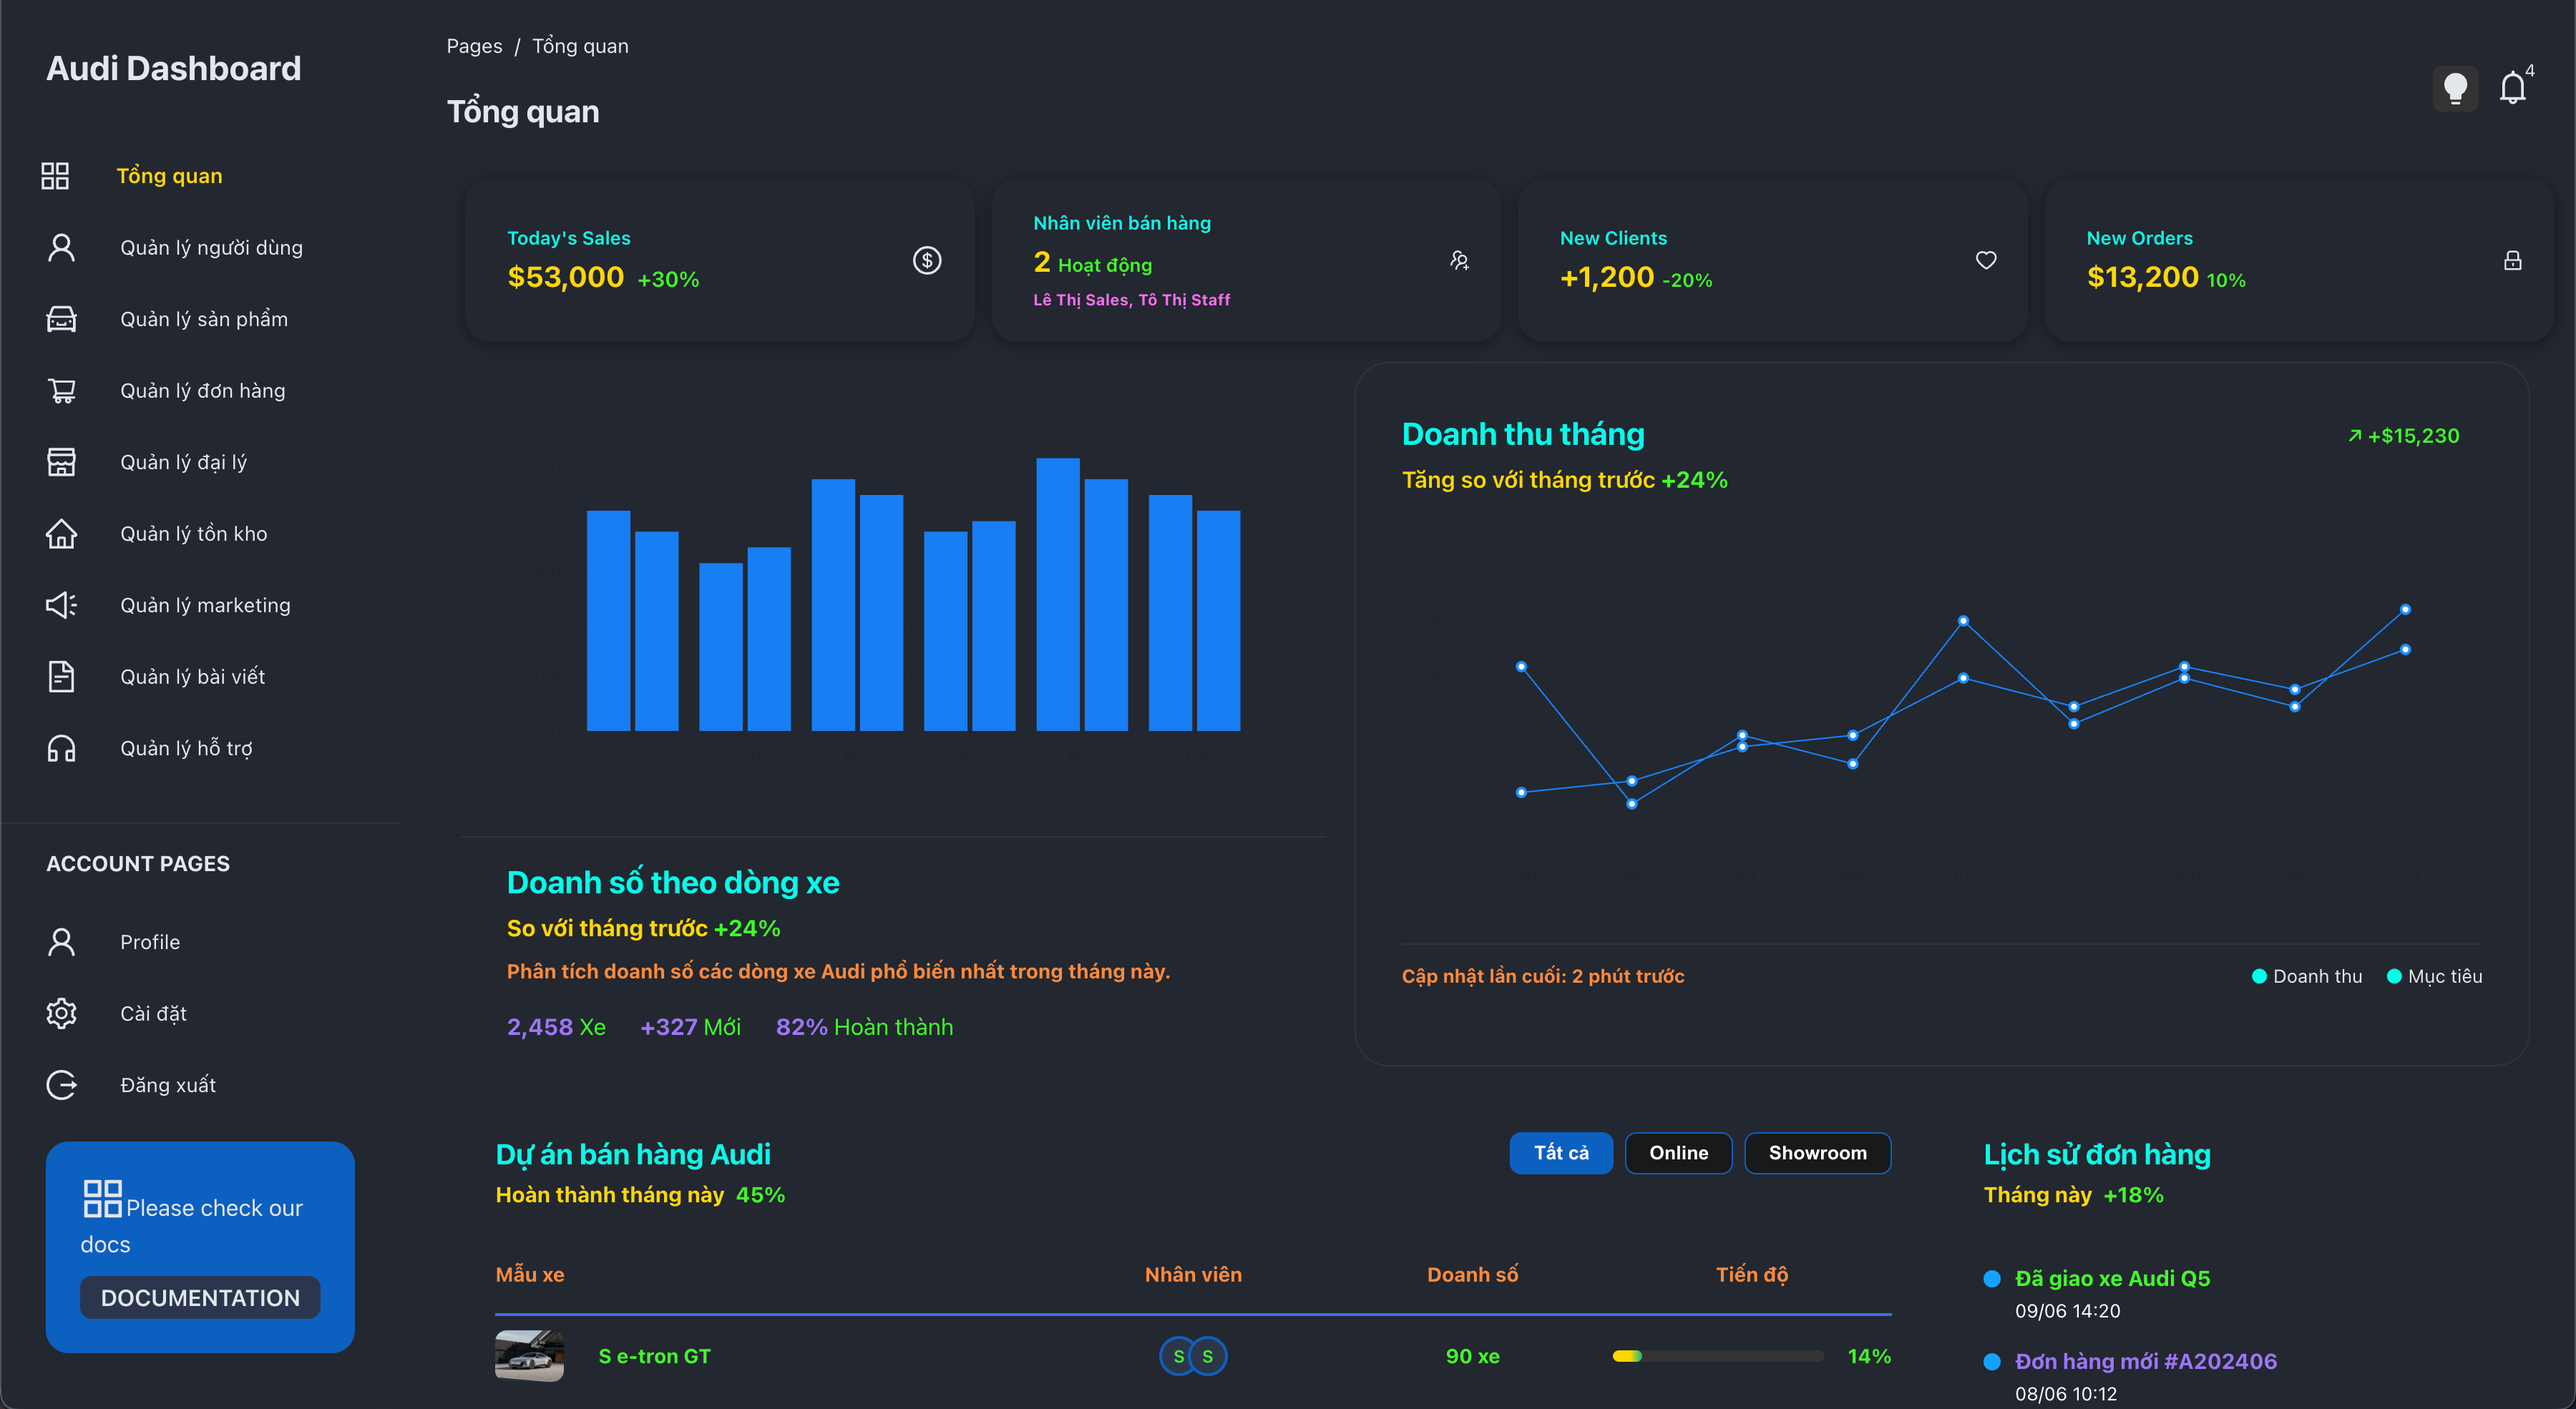
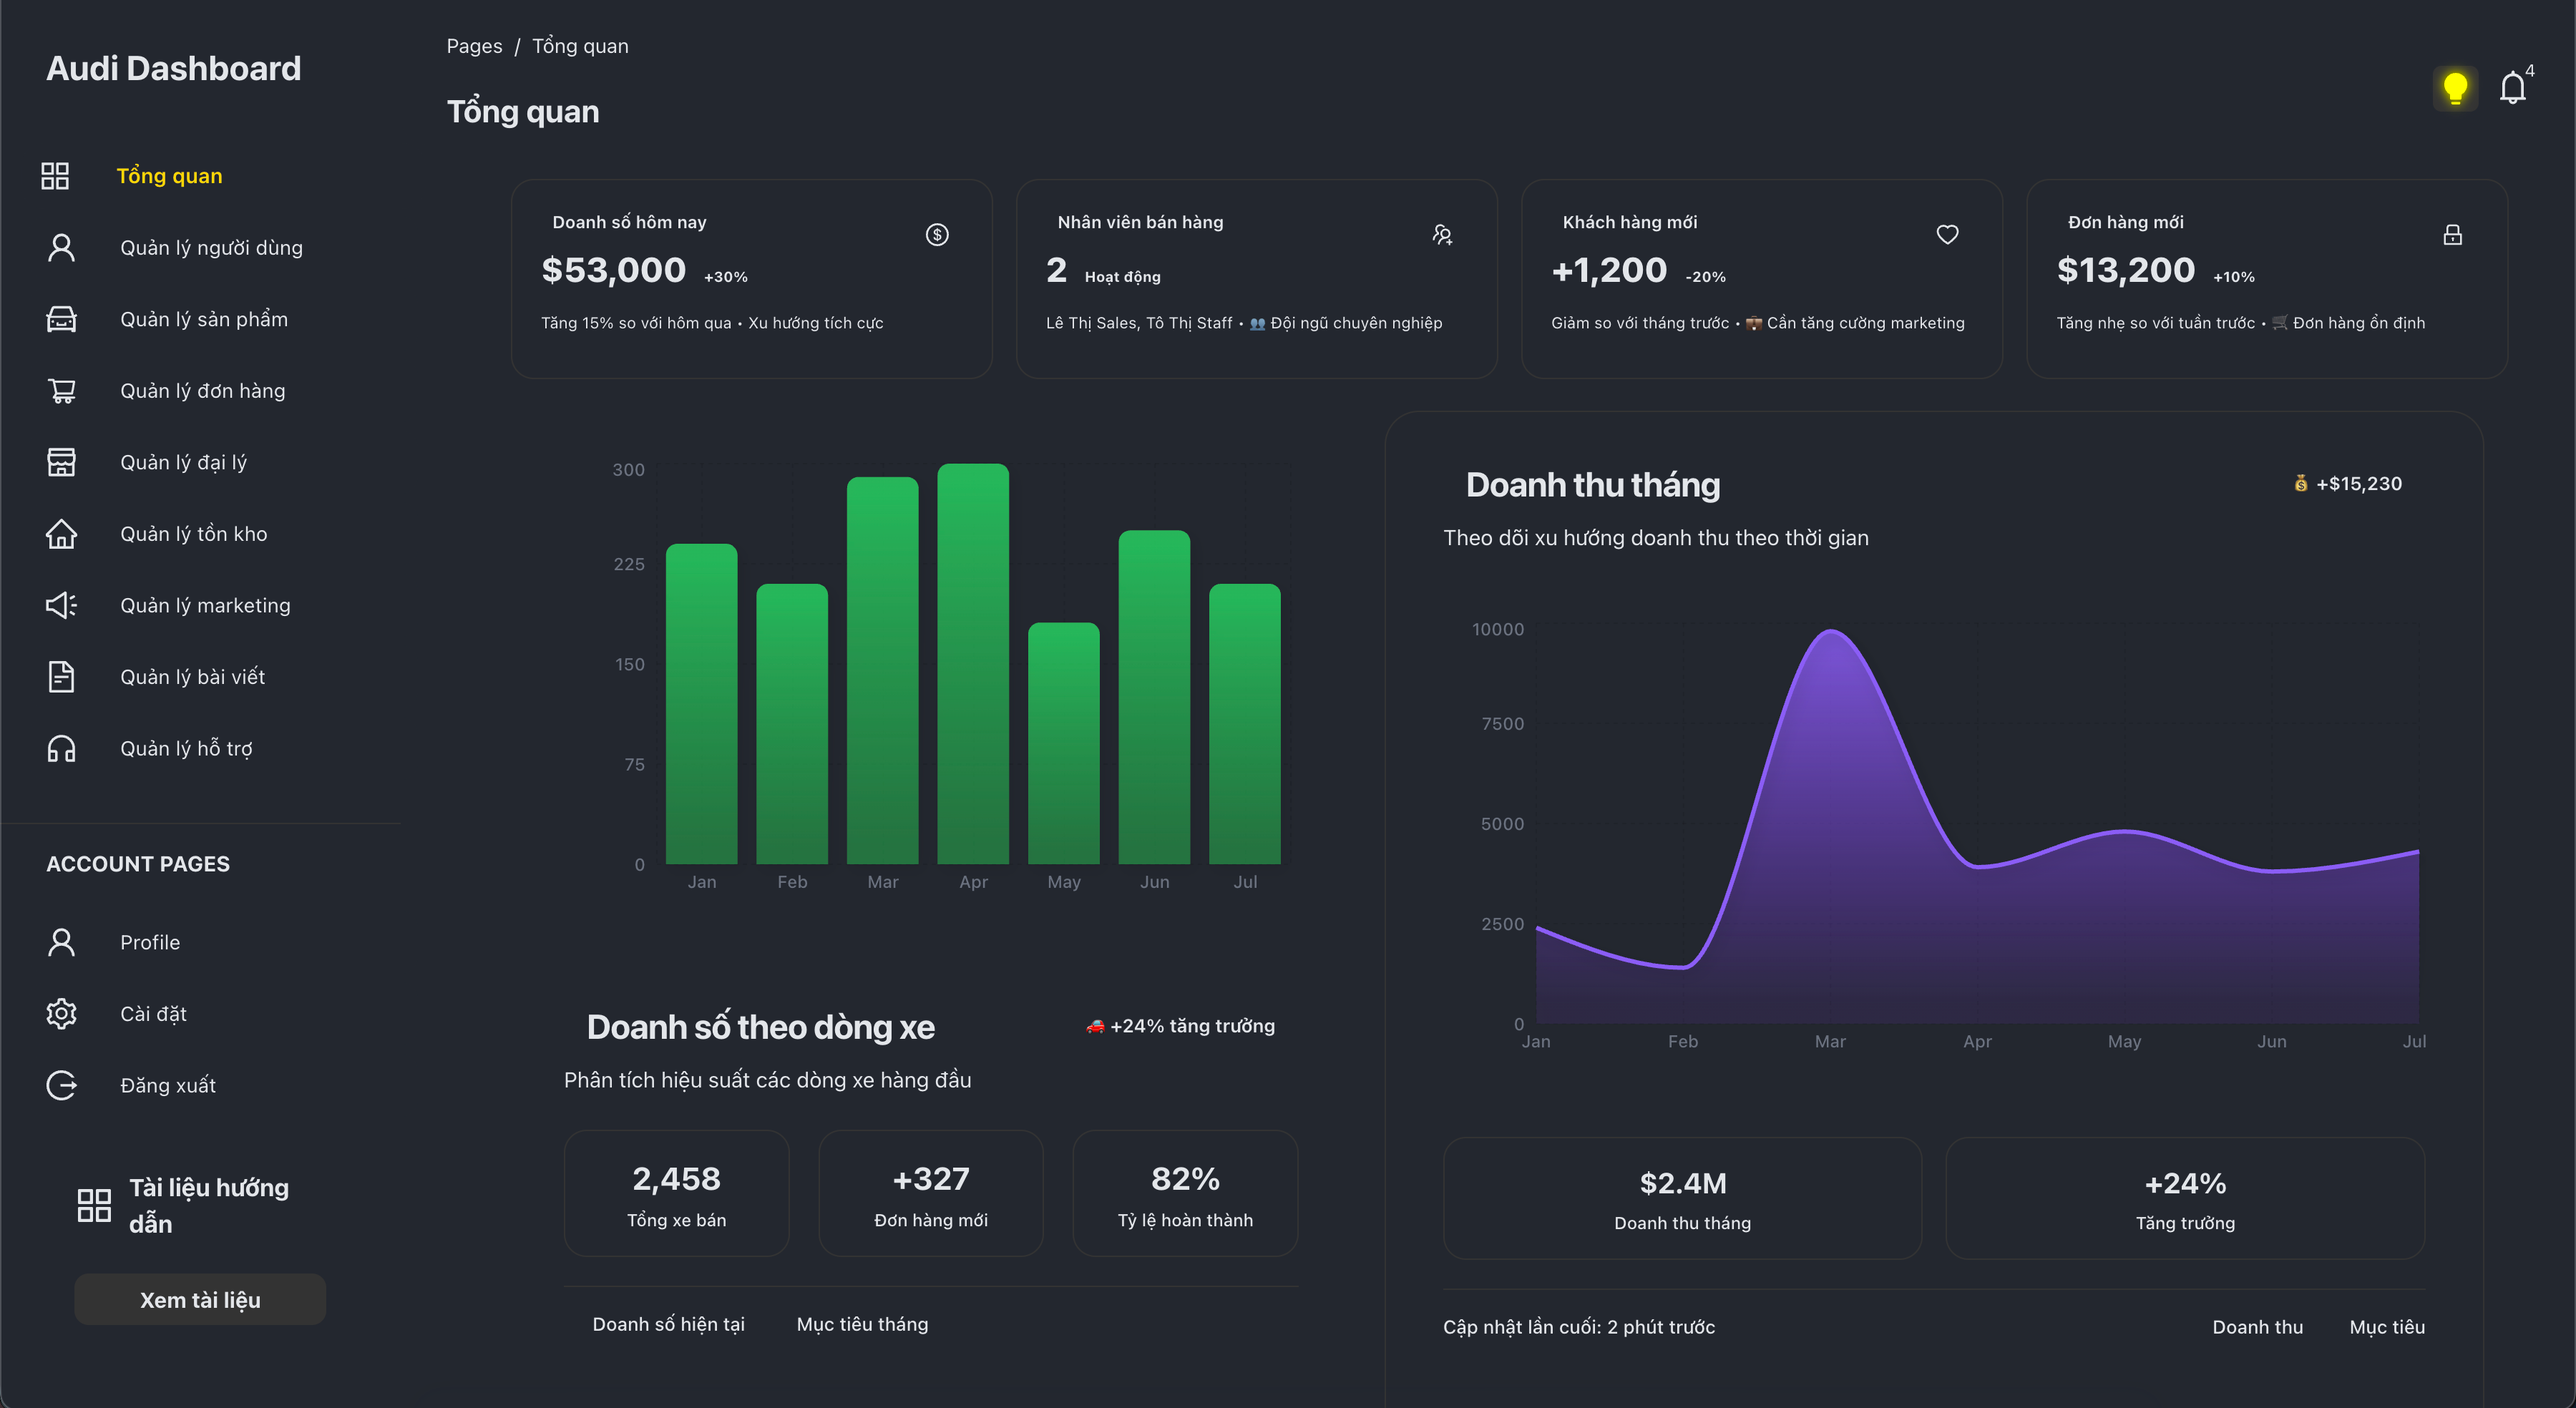
update README

diff --git a/src/context/pages/admin/Dashboard.tsx b/src/context/pages/admin/Dashboard.tsx
@@ -400,6 +400,8 @@ const Dashboard: React.FC = () => {
     window.scrollTo({ top: 0, left: 0, behavior: 'smooth' });
   }, [selectedMenu]);
 
+  const [isDocCardHovered, setIsDocCardHovered] = useState(false);
+
   return (
     <Layout>
       {isMobile && !sidebarCollapsed && (
@@ -478,30 +480,30 @@ const Dashboard: React.FC = () => {
               <Menu.Item key="dashboard" icon={<AppstoreOutlined style={{ fontSize: 24, color: '#1890ff' }} />}>
                 Tổng quan
               </Menu.Item>
-              <Menu.Item key="users" icon={<UserOutlined style={{ fontSize: 24 }} />}>
+              <Menu.Item key="users" icon={<UserOutlined style={{ fontSize: 24, color: '#1890ff' }} />}>
                 Quản lý người dùng
               </Menu.Item>
-              <Menu.Item key="products" icon={<CarOutlined style={{ fontSize: 24 }} />}>
+              <Menu.Item key="products" icon={<CarOutlined style={{ fontSize: 24, color: '#1890ff' }} />}>
                 Quản lý sản phẩm
               </Menu.Item>
-              <Menu.Item key="orders" icon={<ShoppingCartOutlined style={{ fontSize: 24 }} />}>
+              <Menu.Item key="orders" icon={<ShoppingCartOutlined style={{ fontSize: 24, color: '#1890ff' }} />}>
                 Quản lý đơn hàng
               </Menu.Item>
-              <Menu.Item key="dealers" icon={<ShopOutlined style={{ fontSize: 24 }} />}>
+              <Menu.Item key="dealers" icon={<ShopOutlined style={{ fontSize: 24, color: '#1890ff' }} />}>
                 Quản lý đại lý
               </Menu.Item>
-              <Menu.Item key="inventory" icon={<HomeOutlined style={{ fontSize: 24 }} />}>
+              <Menu.Item key="inventory" icon={<HomeOutlined style={{ fontSize: 24, color: '#1890ff' }} />}>
                 Quản lý tồn kho
               </Menu.Item>
-              <Menu.Item key="marketing" icon={<SoundOutlined style={{ fontSize: 24 }} />}>
+              <Menu.Item key="marketing" icon={<SoundOutlined style={{ fontSize: 24, color: '#1890ff' }} />}>
                 
                   Quản lý marketing
                 
               </Menu.Item>
-              <Menu.Item key="blog" icon={<FileTextOutlined style={{ fontSize: 24 }} />}>
+              <Menu.Item key="blog" icon={<FileTextOutlined style={{ fontSize: 24, color: '#1890ff' }} />}>
                 Quản lý bài viết
               </Menu.Item>
-              <Menu.Item key="support" icon={<CustomerServiceOutlined style={{ fontSize: 24 }} />}>
+              <Menu.Item key="support" icon={<CustomerServiceOutlined style={{ fontSize: 24, color: '#1890ff' }} />}>
                 Quản lý hỗ trợ
               </Menu.Item>
             </Menu>
@@ -529,33 +531,62 @@ const Dashboard: React.FC = () => {
               </Menu.Item>
             </Menu>
             <div style={{ position: 'absolute', bottom: 40, left: 0, width: '100%', padding: '0 32px' }}>
-              <div className="dashboard-card-value111111"
+              <div
                 style={{
-                  background: '#1890ff',
-                  borderRadius: 16,
-                  padding: 24,
+                  width: '100%',
+                  maxWidth: 220,
+                  margin: '32px auto 0 auto', // Cách menu phía trên
+                  borderRadius: 20,
+                  background: 'linear-gradient(135deg, #1890ff 0%, #43a047 100%)',
                   color: '#fff',
-                  textAlign: 'left',
-                  boxShadow: '0 4px 24px rgba(24,144,255,0.15)',
+                  boxShadow: isDocCardHovered
+                    ? '0 16px 48px rgba(24,144,255,0.18)'
+                    : '0 8px 32px 0 rgba(24,144,255,0.12)',
+                  padding: 20,
+                  display: 'flex',
+                  flexDirection: 'column',
+                  alignItems: 'center',
+                  gap: 10,
+                  position: 'relative',
+                  zIndex: 1,
+                  transform: isDocCardHovered ? 'translateY(-4px)' : 'translateY(0)',
+                  transition: 'box-shadow 0.3s cubic-bezier(.4,2,.3,1), transform 0.3s cubic-bezier(.4,2,.3,1)',
+                  cursor: 'pointer',
                 }}
+                className="hover-card"
+                onMouseEnter={() => setIsDocCardHovered(true)}
+                onMouseLeave={() => setIsDocCardHovered(false)}
               >
-                <AppstoreOutlined style={{ fontSize: 32, color: '#fff', marginBottom: 1 }} />
-                <Text style={{ color: '#fff', fontSize: 16 }}>Please check our docs</Text>
-                <Button className="dashboard-card-value1111111"
+                <div style={{ display: 'flex', alignItems: 'center', gap: 10, fontWeight: 700, fontSize: 17, marginBottom: 2, justifyContent: 'center' }}>
+                  <AppstoreOutlined style={{ fontSize: 28, color: '#fff' }} />
+                  <span>Tài liệu hướng dẫn</span>
+                </div>
+                
+                <Button
                   type="default"
                   style={{
-                    marginTop: 10,
                     width: '100%',
                     background: '#fff',
-                    color: '#222',
-                    fontWeight: 600,
-                    borderRadius: 8,
+                    color: '#1890ff',
+                    fontWeight: 700,
+                    borderRadius: 10,
                     border: 'none',
-                    height: 30,
-                    fontSize: 16,
+                    height: 36,
+                    fontSize: 15,
+                    marginTop: 10,
+                    boxShadow: '0 2px 8px rgba(24,144,255,0.08)',
+                    transition: 'all 0.2s',
+                  }}
+                  onMouseEnter={e => {
+                    e.currentTarget.style.background = '#e3f2fd';
+                    e.currentTarget.style.color = '#1976d2';
+                  }}
+                  onMouseLeave={e => {
+                    e.currentTarget.style.background = '#fff';
+                    e.currentTarget.style.color = '#1890ff';
                   }}
                 >
-                  DOCUMENTATION
+                  Xem tài liệu
                 </Button>
               </div>
             </div>

diff --git a/src/styles/Admin.css b/src/styles/Admin.css
@@ -2368,5 +2368,11 @@
   }
 }
 
+/* frontend/audi/src/styles/Admin.css */
+.ant-menu-item:hover .anticon,
+.ant-menu-item-selected .anticon {
+  color: #43a047 !important;
+}
+
 
 
